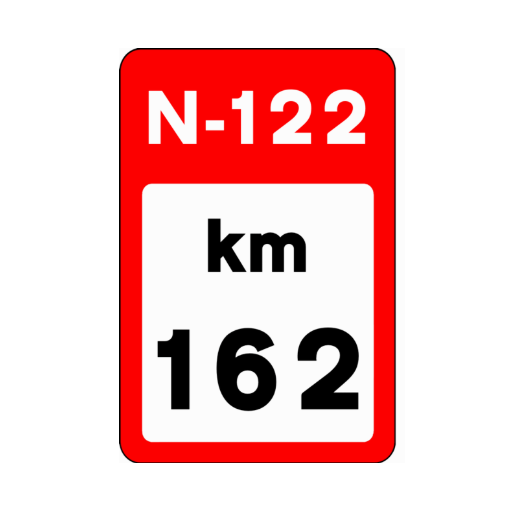
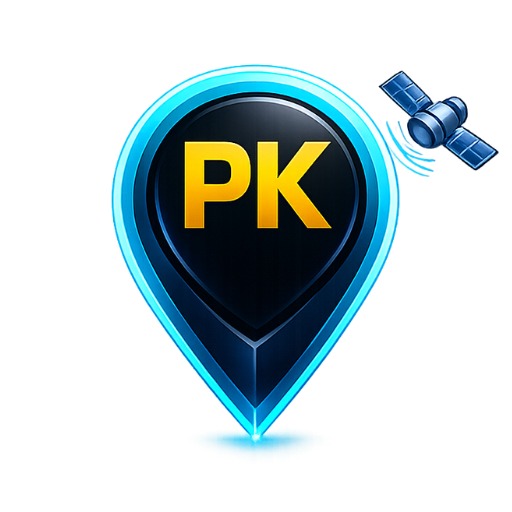
Add files via upload

diff --git a/index.html b/index.html
@@ -2642,15 +2642,21 @@ input[type="range"]::-webkit-slider-thumb{-webkit-appearance:none;width:19px;hei
 <!-- ════ PANTALLA DE BIENVENIDA — tapa el muro de acceso ~2s al arrancar ════ -->
 <div id="appSplash" style="
   position:fixed;inset:0;z-index:999999;
-  background:#111214;
+  background:#060a14;
   display:flex;flex-direction:column;align-items:center;justify-content:center;
-  gap:10px;
+  gap:14px;
   transition:opacity .5s ease;
 ">
+  <img src="icon-512.png" alt="PK-GEOLOC" style="
+    width:88px;height:88px;border-radius:20px;
+    box-shadow:0 0 32px rgba(0,212,255,.35);
+    animation:pkSplashPop .6s cubic-bezier(.34,1.56,.64,1),
+              pkSplashBreathe 1.8s ease-in-out .6s infinite;
+  ">
   <div style="font-family:'Barlow Condensed',sans-serif;font-size:2.1rem;font-weight:900;
               letter-spacing:3px;color:#00D4FF;text-shadow:0 0 28px rgba(0,212,255,.45);
-              animation:pkSplashPop .6s cubic-bezier(.34,1.56,.64,1);">
-    PK-GEOLOC
+              animation:pkSplashPop .6s cubic-bezier(.34,1.56,.64,1) .1s backwards;">
+    <span style="color:#fff;">PK</span>-GEOLOC
   </div>
   <div style="font-size:.68rem;font-weight:700;letter-spacing:2px;color:rgba(0,212,255,.55);
               text-transform:uppercase;">
@@ -2659,6 +2665,7 @@ input[type="range"]::-webkit-slider-thumb{-webkit-appearance:none;width:19px;hei
 </div>
 <style>
 @keyframes pkSplashPop{from{transform:scale(.85);opacity:0;}to{transform:scale(1);opacity:1;}}
+@keyframes pkSplashBreathe{0%,100%{transform:scale(1);}50%{transform:scale(1.05);}}
 </style>
 <script>
 setTimeout(function () {
@@ -2673,7 +2680,7 @@ setTimeout(function () {
 <!-- ════ MURO DE ACCESO — Prueba Piloto (licencias externas en licencias.json) ════ -->
 <div id="accessWall" style="
   position:fixed;inset:0;z-index:99999;
-  background:#111214;
+  background:#060a14;
   display:flex;flex-direction:column;align-items:center;justify-content:center;
   padding:28px 20px;font-family:'Barlow',sans-serif;
 ">
@@ -2683,7 +2690,7 @@ setTimeout(function () {
     <div style="text-align:center;">
       <div style="font-family:'Barlow Condensed',sans-serif;font-size:2rem;font-weight:900;
                   letter-spacing:3px;color:#00D4FF;text-shadow:0 0 24px rgba(0,212,255,.4);">
-        PK-GEOLOC
+        <span style="color:#fff;">PK</span>-GEOLOC
       </div>
       <div style="font-size:.65rem;font-weight:700;letter-spacing:2px;color:rgba(0,212,255,.6);
                   text-transform:uppercase;margin-top:3px;">
@@ -3546,7 +3553,7 @@ setTimeout(function () {
 <div class="screen active" id="screenHome">
   <div class="header">
     <div>
-      <span class="logo-text">PK-GEOLOC</span>
+      <span class="logo-text"><span style="color:#fff;">PK</span>-GEOLOC</span>
       <span class="logo-badge">v2</span>
     </div>
     <div class="header-right">